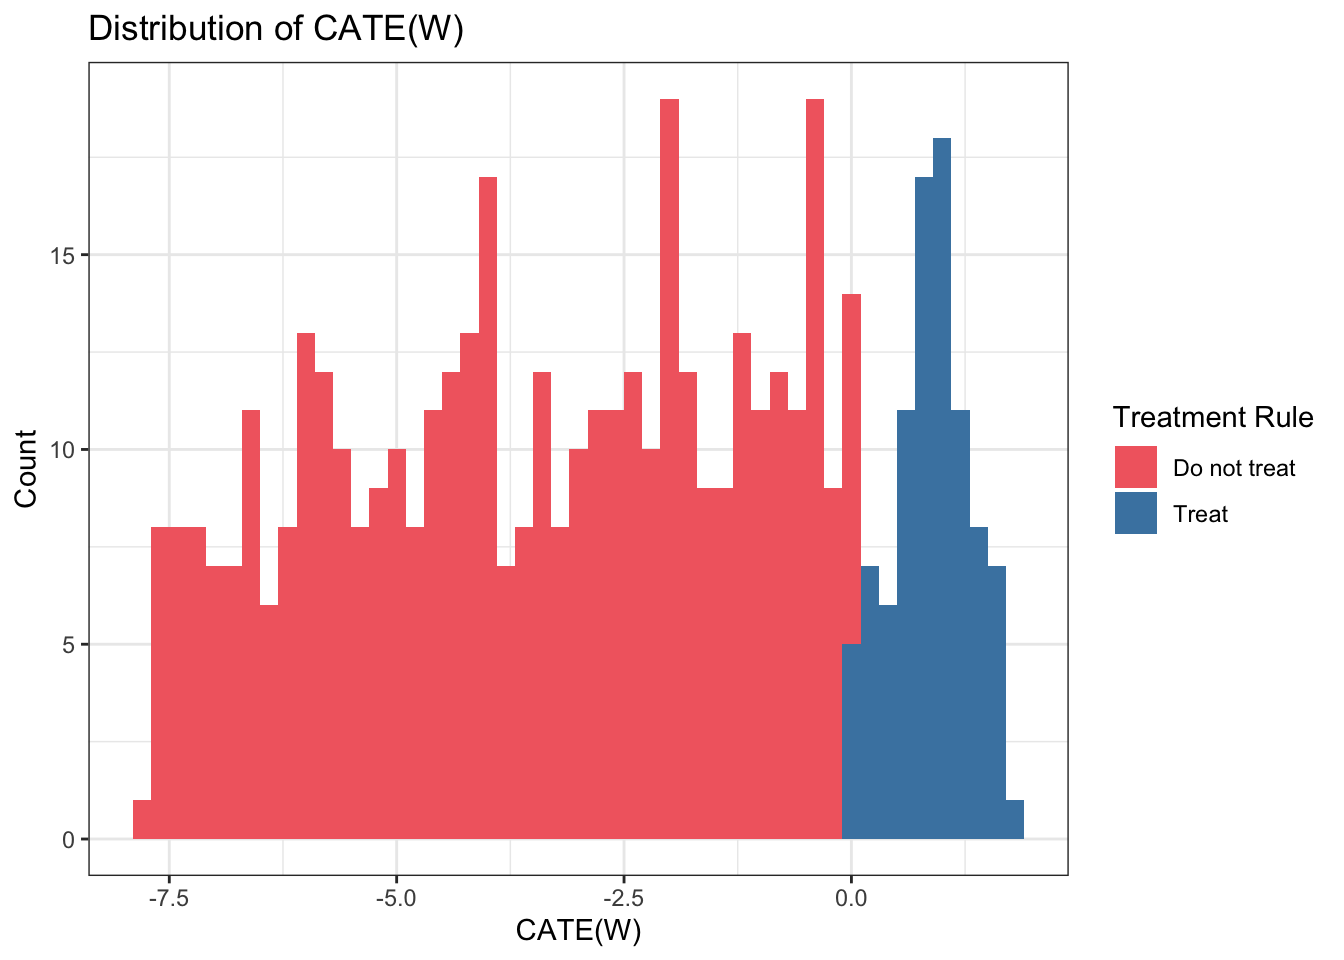
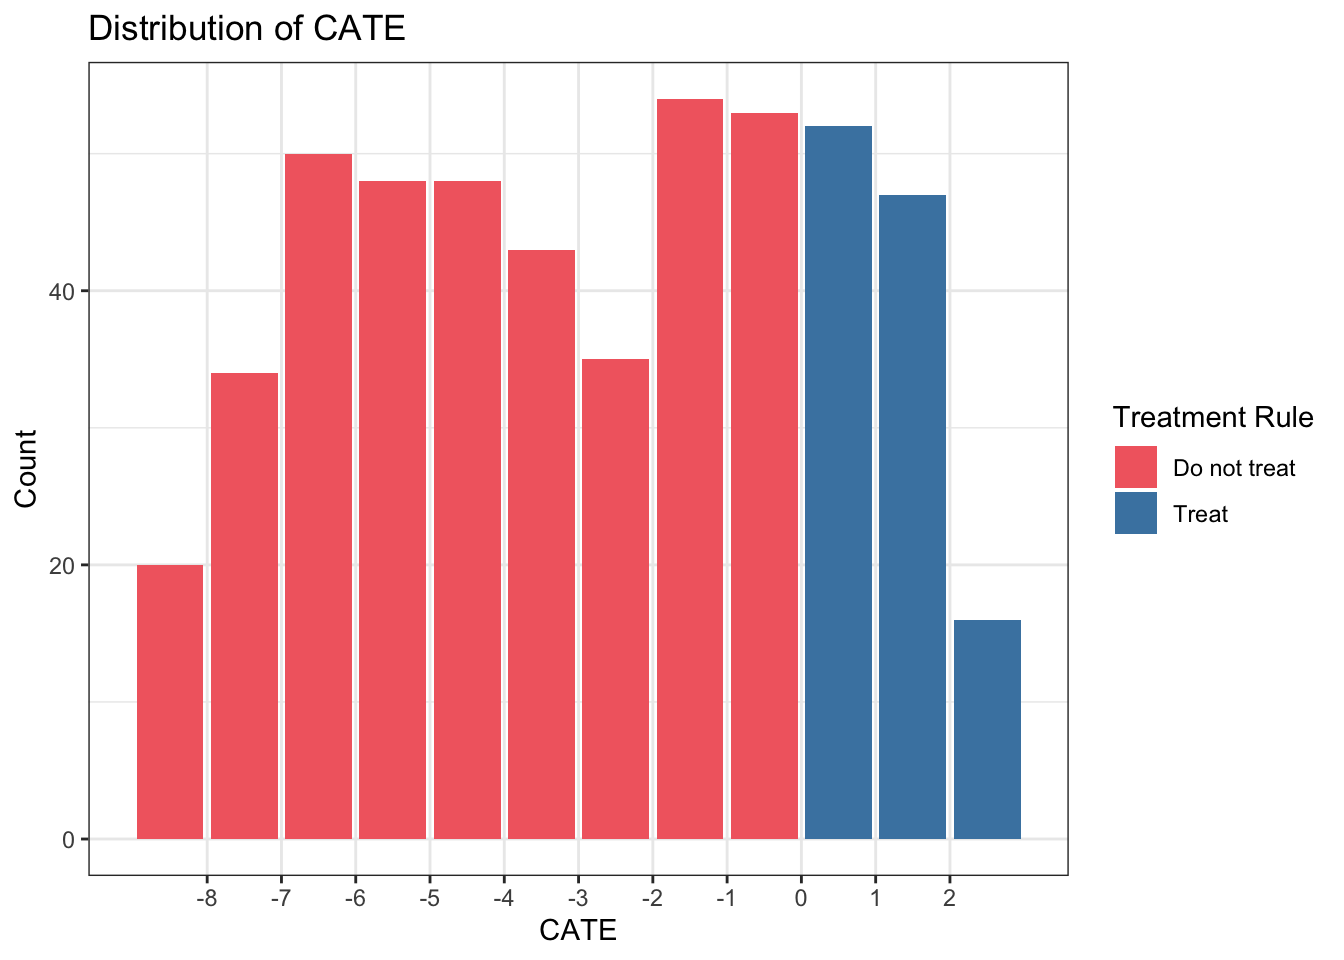
more otr last min updates

diff --git a/content/blog/otr/otr.html b/content/blog/otr/otr.html
@@ -26,18 +26,10 @@ output:
 <li><p>📈 <a href="#estimating-the-itr">A simple estimation example</a></p></li>
 <li><p>🖥 <a href="#r-simulation"><code>R</code> code for a simple estimation example</a></p></li>
 </ol>
-<!-- # This post builds on the following concepts: -->
-<!-- - **Counterfactual outcome**: the outcome in a hypothetical world where a unit received a certain intervention or treatment, which might be different from the treatment they actually received. -->
-<!-- - Average Treatment Effect:  -->
-<!-- - **G-computation:** a form of substitution estimation. In its simplest form for computing the ATE for a binary treatment, the G-comp procedure is: -->
-<!--   1. fit a regression for $\mathrm{E}[Y|A,W]$ -->
-<!--   2. obtain predictions for $\hat{E}[Y|A,W]$ when $A=1$ and $A=0$ -->
-<!--   3. take the average difference between $\hat{E}[Y|A=1,W]$ and $\hat{E}[Y|A=0,W]$ -->
-<!-- # The FUTURE of Medicine -->
 </div>
 <div id="the-big-picture-of-itrs" class="section level1">
 <h1>🗺 The Big Picture of ITRs</h1>
-<p>In this first section, we will translate the concept of developing and optimizing an ITRs into mathematical notation.</p>
+<p>In this first section, we will translate the concept of developing and optimizing an ITR into mathematical notation.</p>
 <ol style="list-style-type: decimal">
 <li>We will start with a standard set-up: we have a matrix of observed data <span class="math inline">\(O\)</span> which includes our <strong>outcome</strong> <span class="math inline">\(Y\)</span>, the <strong>exposure</strong> (i.e. treatment, medicine, etc.) we want to study <span class="math inline">\(A\)</span>, and other <strong>covariates</strong> <span class="math inline">\(\textbf{W}\)</span>. Each row is an observation. We can denote these columns of data, which are random variables, as <span class="math inline">\(O = (\textbf{W}, A, Y)\)</span>.</li>
 </ol>
@@ -86,24 +78,24 @@ This is equivalent to a function you could write in R or Python which takes a ma
 <p><span class="math display">\[\mathrm{CATE}(W) = \mathrm{E}[Y|A=1, \textbf{W}] - \mathrm{E}[Y|A=0, \textbf{W}]\]</span>
 <!-- Compare this to the ATE after identification to clearly see the formula for CATE is the same, minus the outer expectation: --></p>
 <!-- $$\mathrm{ATE}(W) = \mathrm{E}[\mathrm{E}[Y|A=1, W] - \mathrm{E}[Y|A=0, W]]$$ -->
-<p>We could estimate the CATE using <strong>G-computation</strong>. If you’d like a review on G-computation, check out this <a href="https://github.com/kathoffman/causal-inference-visual-guides/blob/master/visual-guides/G-Computation.pdf">visual guide</a>.</p>
+<p>We could estimate the CATE using <strong>G-computation</strong><a href="#fn3" class="footnote-ref" id="fnref3"><sup>3</sup></a>:</p>
 <ol style="list-style-type: decimal">
 <li>Fit a regression for <span class="math inline">\(\mathrm{E}[Y|A,\textbf{W}]\)</span>.</li>
 </ol>
 <p><img src="/img/tmle/2_outcome_fit.png" style="width:70.0%" /></p>
 <ol start="2" style="list-style-type: decimal">
-<li>Obtain predicted estimates for <span class="math inline">\(Y\)</span> on datasets where all observations are changed to have <span class="math inline">\(A=1\)</span> and <span class="math inline">\(A=0\)</span> using the model fit from Step 1.</li>
+<li>Use the model fit from Step 1 to obtain predicted estimates for <span class="math inline">\(Y\)</span>. Use two different datasets: one where all observations are changed to have <span class="math inline">\(A=1\)</span>, and one where all observations are changed to have <span class="math inline">\(A=0\)</span>.</li>
 </ol>
 <p><span class="math display">\[\hat{E}[Y|A=1, \textbf{W}]\]</span></p>
 <p><img src="/img/tmle/4_Q1.png" style="width:80.0%" /></p>
 <p><span class="math display">\[\hat{E}[Y|A=0, \textbf{W}]\]</span></p>
 <p><img src="/img/tmle/5_Q1.png" style="width:80.0%" /></p>
 <ol start="3" style="list-style-type: decimal">
-<li>Compute the difference in the predicted <span class="math inline">\(Y\)</span>’s for the two datasets from Step 2.</li>
+<li>Compute the difference of the quantities from Step 2.</li>
 </ol>
 <p><span class="math display">\[\widehat{CATE} = \hat{E}[Y|A=1, \textbf{W}] - \hat{E}[Y|A=0, \textbf{W}]\]</span></p>
 <p><img src="/img/otr/cate.png" style="width:32.0%" /></p>
-<p>Then, we could say our optimal ITR is to <strong>give treatment if the value of <span class="math inline">\(CATE\)</span> for that person is positive</strong>, indicating a positive effect of treatment on the outcome <span class="math inline">\(Y\)</span>. Likewise, if the value is negative or 0, indicating a negative or neutral effect on the outcome <span class="math inline">\(Y\)</span>, that unit would not receive treatment under the ITR.</p>
+<p>Now, we could say our optimal ITR is to <strong>give treatment if the value of <span class="math inline">\(CATE\)</span> for that person is positive</strong>, indicating a positive effect of treatment on the outcome <span class="math inline">\(Y\)</span>. Likewise, if the value is negative or 0, indicating a negative or neutral effect on the outcome <span class="math inline">\(Y\)</span>, that unit would not receive treatment under the ITR.</p>
 <p><span class="math display">\[ITR = \mathbb{1}{ \{CATE &gt; 0} \}\]</span></p>
 <p><img src="/img/otr/cate_assign_legend.png" style="width:50.0%" /></p>
 </div>
@@ -120,30 +112,33 @@ df &lt;- data.frame(W, A, Y)</code></pre>
 E_Y1 &lt;- predict(fit, newdata = data.frame(A = 1, W))
 E_Y0 &lt;- predict(fit, newdata = data.frame(A = 0, W))
 CATE &lt;- E_Y1 - E_Y0</code></pre>
-<p>Finally, our optimal treatment rule will be to treat any unit with <code>CATE &gt; 1</code>. We can visually see there is benefit for about 1/4 of units in our simulated population.</p>
+<p>Finally, our optimal treatment rule will be to treat any unit with <code>CATE &gt; 1</code>. If we plot the distribution of CATE in intervals of length 1, we can visually see there is benefit for about 1/4 of units in our simulated population.</p>
 <pre class="r"><code>library(tidyverse)
+
 data.frame(CATE) |&gt;
   mutate(d_star = ifelse(CATE &gt; 0, &quot;Treat&quot;, &quot;Do not treat&quot;)) |&gt;
-  ggplot(aes(CATE, fill=d_star)) +
-  geom_histogram(binwidth=.2) +
+  ggplot(aes(CATE,fill=d_star)) +
+  geom_bar() +
+  scale_x_binned() +
   theme_bw() +
   scale_fill_manual(values = c(&quot;#f2696f&quot;,&quot;#4984b0&quot;)) +
-  labs(x=&quot;CATE(W)&quot;, y = &quot;Count&quot;, fill = &quot;Treatment Rule&quot;, title=&quot;Distribution of CATE(W)&quot;)</code></pre>
+  labs(x=&quot;CATE&quot;, y = &quot;Count&quot;, fill = &quot;Treatment Rule&quot;, title=&quot;Distribution of CATE&quot;)</code></pre>
 <p><img src="/blog/otr/otr_files/figure-html/unnamed-chunk-3-1.png" width="672" /></p>
 </div>
 <div id="improving-estimation-of-d" class="section level1">
 <h1>Improving estimation of <span class="math inline">\(d^*\)</span></h1>
 <p>There are many other ways to estimate the <span class="math inline">\(CATE\)</span> with improved statistical properties, e.g. <strong>double robustness</strong>. We could also estimate <span class="math inline">\(d^*\)</span> directly instead of first estimating the <span class="math inline">\(CATE\)</span>.</p>
-<p>We can extend either of these ideas to longitudinal settings, studies with clustering, etc. I’ve listed some of the resources I’ve read learn about optimizing ITRs below. As always, I welcome feedback and/or suggestions of additional resources I can include.</p>
+<p>We can extend either of these ideas to longitudinal settings, studies with clustering, etc. I’ve listed some of the resources I’ve used to learn about optimizing ITRs below. As always, I welcome feedback and/or suggestions of additional resources I can include.</p>
 <hr />
 </div>
 <div id="further-reading" class="section level1">
 <h1>Further reading</h1>
 <p>These concepts are introductory, so any paper on “optimal treatment rules”, “individualized treatment rules”, or “heterogeneous treatment effects” should review the ideas discussed here in their introductions.</p>
 <ul>
-<li><p>This <a href="https://www.bios.unc.edu/~dzeng/Pub/EHROLearning1.pdf">Wang et al. paper</a> offers a clear introduction on ITRs.</p></li>
+<li><p>This <a href="https://www.bios.unc.edu/~dzeng/Pub/EHROLearning1.pdf">Wang et al. paper</a> offers a clear mathematical introduction on ITRs.</p></li>
 <li><p><a href="https://www.youtube.com/watch?v=-0-RYxQ0zqM">Brady Neal’s causal course Youtube series</a> (Chapter 6.2) discusses Conditional Outcome Modeling (what the CATE estimator falls under) over a 10 minute video.</p></li>
-<li><p>Lately I’ve been interested in <a href="https://arxiv.org/pdf/2004.14497.pdf">this recent paper</a> by Edward Kennedy. It discusses a way to evaluate the CATE using doubly robust estimation, and gives several other foundational papers in the introduction.</p></li>
+<li><p>This <a href="https://jamanetwork.com/journals/jama/fullarticle/2787131">Angus and Chang <em>JAMA</em> Statistics and Research Methods paper</a> gives an overview of a few ways to compute heterogeneous treatment effects for individualized treatment rules.</p></li>
+<li><p>Lately I’ve been interested in <a href="https://arxiv.org/pdf/2004.14497.pdf">this recent methods paper</a> by Edward Kennedy. It discusses a way to evaluate the CATE using doubly robust estimation, and gives several other foundational papers in the introduction.</p></li>
 <li><p><a href="https://egap.org/resource/10-things-to-know-about-heterogeneous-treatment-effects/">This <code>R</code> blog post</a> about heterogeneous treatment effects also may be useful for thinking through these issues with real data.</p></li>
 </ul>
 <p>I’ll continue to add resources to this list as I discover them. Please reach out if you have recommendations of papers or tutorials (yours or others!) to add to this list.</p>
@@ -158,5 +153,6 @@ data.frame(CATE) |&gt;
 <ol>
 <li id="fn1"><p>Recall that a counterfactual describes a hypothetical world where a unit received a certain intervention or treatment, which might be different from the treatment they actually received<a href="#fnref1" class="footnote-back">↩</a></p></li>
 <li id="fn2"><p>This post is focused on estimation and therefore does not detail the requirements for causal identification, but here I refer to the assumptions of consistency, exchangeability, and positivity.<a href="#fnref2" class="footnote-back">↩</a></p></li>
+<li id="fn3"><p>If you’d like a review on G-computation, check out this <a href="https://github.com/kathoffman/causal-inference-visual-guides/blob/master/visual-guides/G-Computation.pdf"><strong>visual guide</strong></a>.<a href="#fnref3" class="footnote-back">↩</a></p></li>
 </ol>
 </div>
